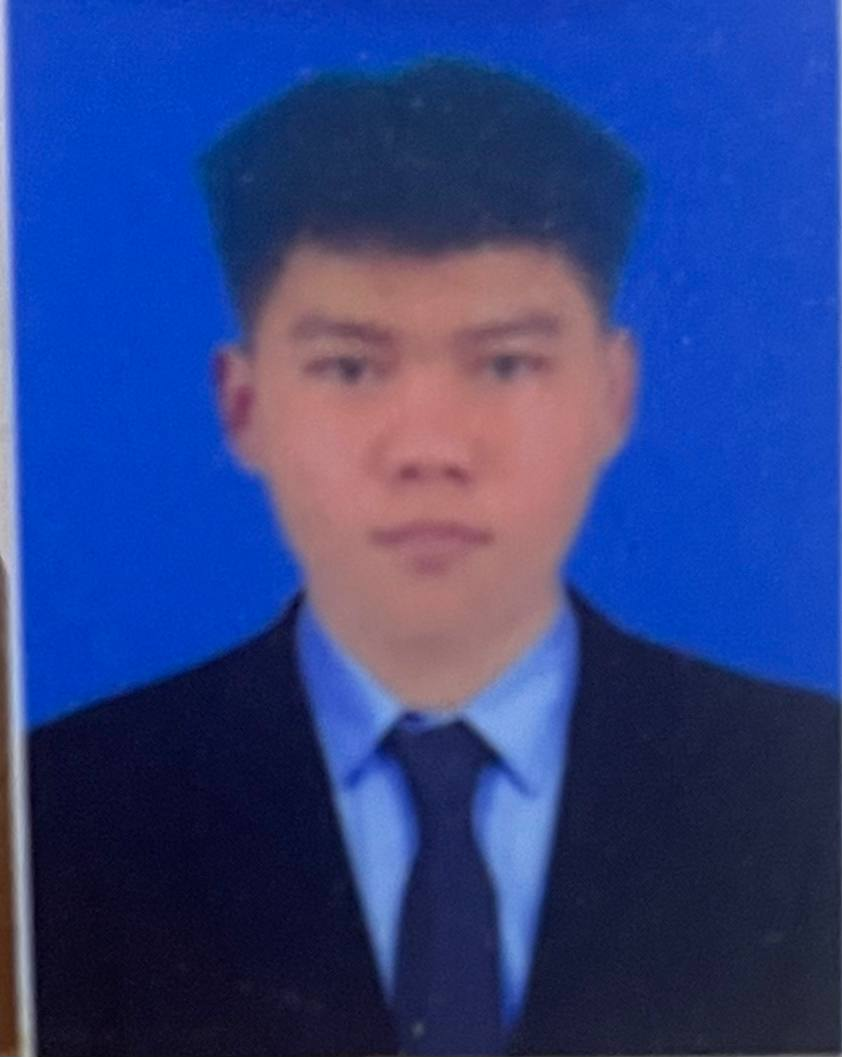
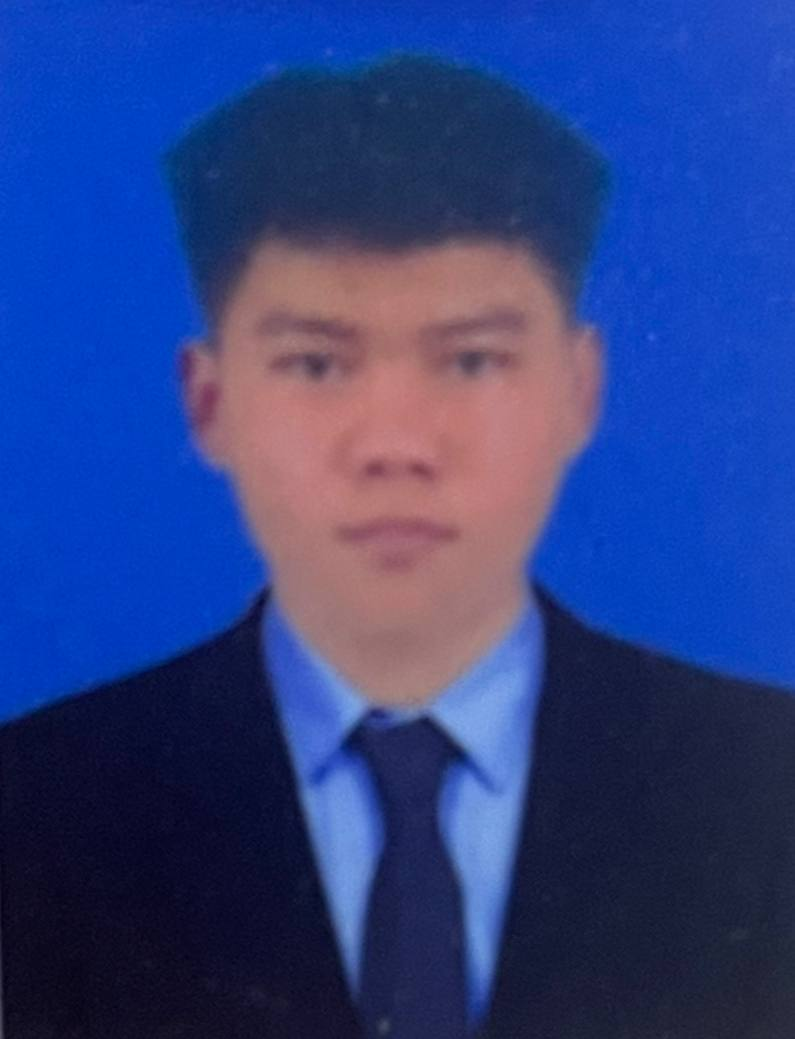
My Portfolio

diff --git a/src/components/Contact.jsx b/src/components/Contact.jsx
@@ -1,6 +1,12 @@
 import React from "react";
 import { FaEnvelope, FaPhoneAlt, FaMapMarkerAlt } from "react-icons/fa";
-
+import {
+  FaFacebookF,
+  FaInstagram,
+  FaLinkedinIn,
+  FaGithub,
+  FaTelegram,
+} from "react-icons/fa";
 function Contact() {
   return (
     <div className="w-full h-full px-4 lg:px-16 py-8 md:py-10 flex flex-col gap-10">
@@ -44,7 +50,39 @@ function Contact() {
               Phnom Penh, Cambodia
             </span>
           </div>
-        </div>
+
+          {/* SOCIAL ICONS */}
+                <div className="flex gap-4 mt-4">
+                    <a
+                      href="https://web.facebook.com/profile.php?id=61560884715837"
+                      target="_blank"
+                      rel="noopener noreferrer"
+                      className="w-10 h-10 flex items-center justify-center rounded-full border border-cyan-400 text-cyan-400 hover:bg-cyan-400 hover:text-black transition"
+                    >
+                      <FaFacebookF />
+                    </a>
+
+                    <a
+                      href="https://t.me/Meng_Rithy_Chey"
+                      target="_blank"
+                      rel="noopener noreferrer"
+                      title="@Meng_Rithy_Chey"
+                      className="w-10 h-10 flex items-center justify-center rounded-full border border-cyan-400 text-cyan-400 hover:bg-cyan-400 hover:text-black transition"
+                    >
+                      <FaTelegram />
+                    </a>
+          
+                    <a
+                      href="https://github.com/BIT9918"
+                      target="_blank"
+                      rel="noopener noreferrer"
+                      className="w-10 h-10 flex items-center justify-center rounded-full border border-cyan-400 text-cyan-400 hover:bg-cyan-400 hover:text-black transition"
+                    >
+                      <FaGithub />
+                    </a>
+          
+                  </div>
+               </div>
 
         {/* RIGHT – CONTACT FORM */}
         <form

diff --git a/src/components/Portfolio.jsx b/src/components/Portfolio.jsx
@@ -7,14 +7,14 @@ import Img from "../assets/img/Screenshot 2026-01-21 192105.png"
 
 function Portfolio() {
   return (
-    <div className="w-full h-full px-4 md:px-16 py-8 md:py-20 flex flex-col gap-8">
+    <div className="w-full h-full md:px-16 py-8 md:py-20 flex flex-col gap-8">
       {/* TITLE */}
       <h2 className="text-3xl md:text-4xl font-bold text-center text-white">
         My <span className="text-cyan-400">Portfolio</span>
       </h2>
 
       {/* GRID */}
-      <div className="grid grid-cols-1 sm:grid-cols-2 lg:grid-cols-3 gap-6">
+      <div className="grid grid-cols-1 sm:grid-cols-2 lg:grid-cols-3 gap-6 px-1">
         {/* BURGER KING (NOT AVAILABLE) */}
         <div className="rounded-xl overflow-hidden bg-[#1f232d] shadow-lg opacity-70">
           <img

diff --git a/src/components/Home.jsx b/src/components/Home.jsx
@@ -108,9 +108,9 @@ function Home() {
   </a> */}
         </div>
 
-        <button className="mt-6 w-fit px-6 py-3 bg-cyan-400 text-black font-semibold rounded-full hover:bg-cyan-300 transition">
+        {/* <button className="mt-6 w-fit px-6 py-3 bg-cyan-400 text-black font-semibold rounded-full hover:bg-cyan-300 transition">
           Download CV
-        </button>
+        </button> */}
       </div>
 
       {/* RIGHT – FLOATING IMAGE */}
